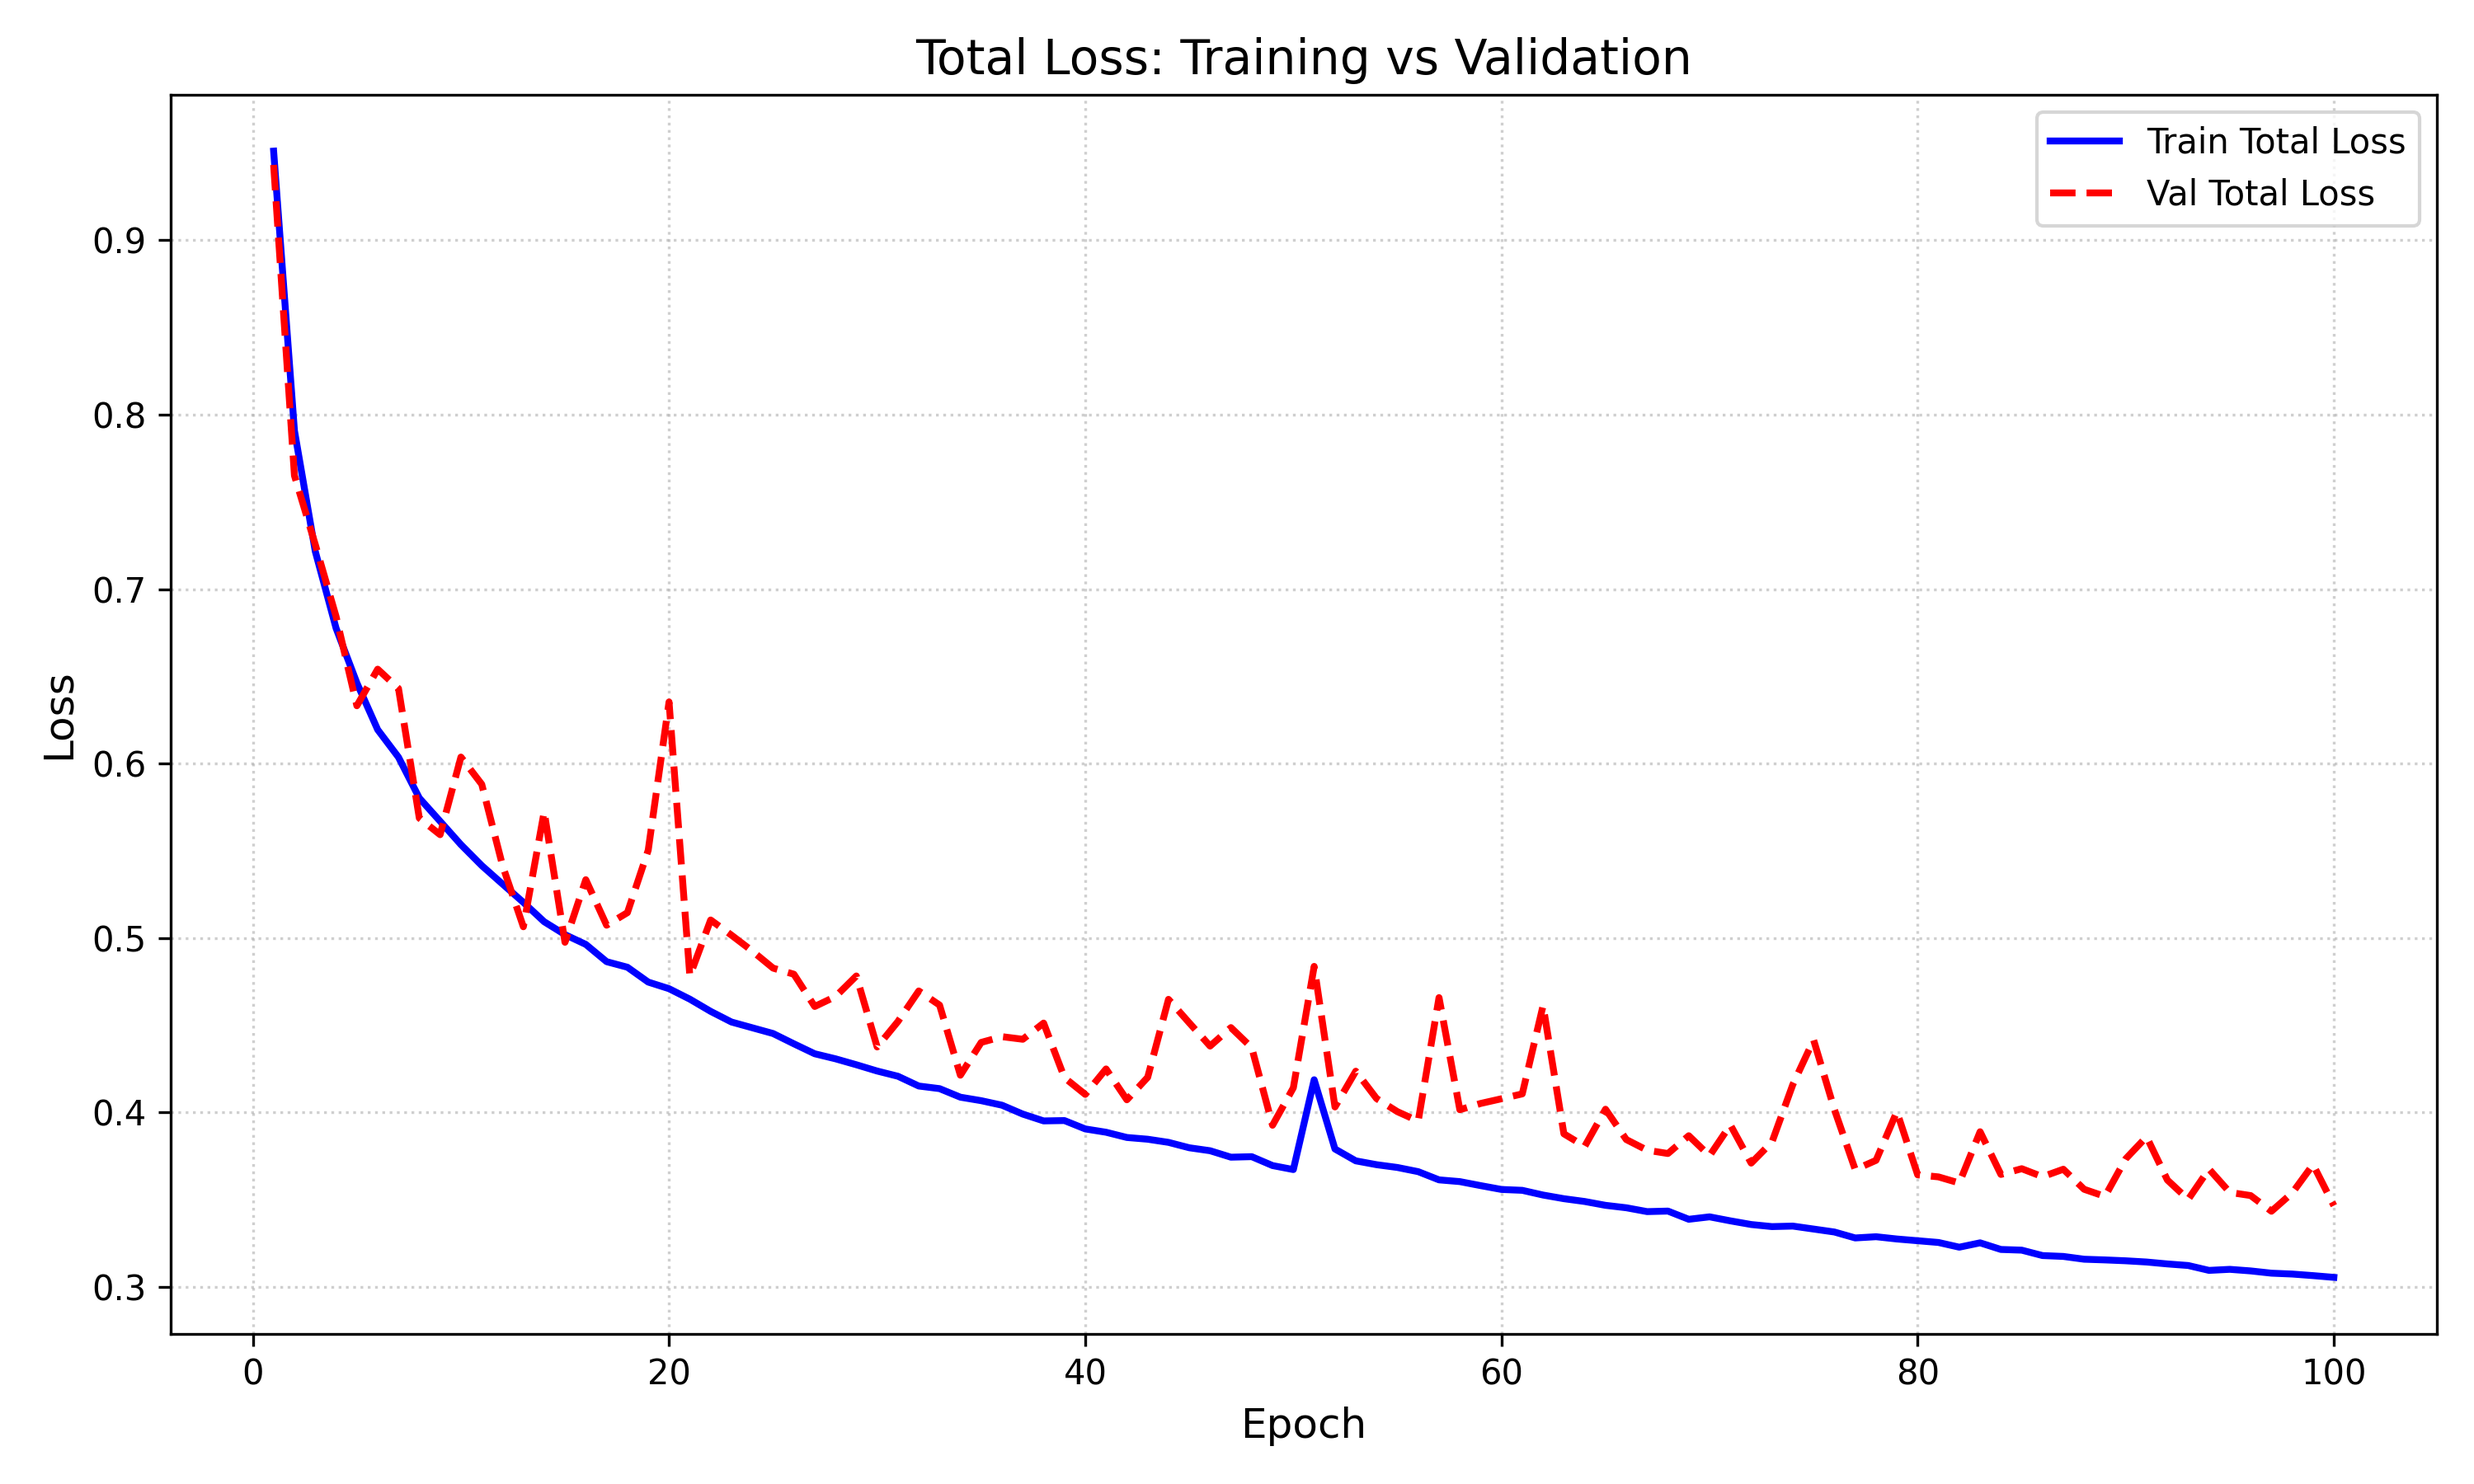
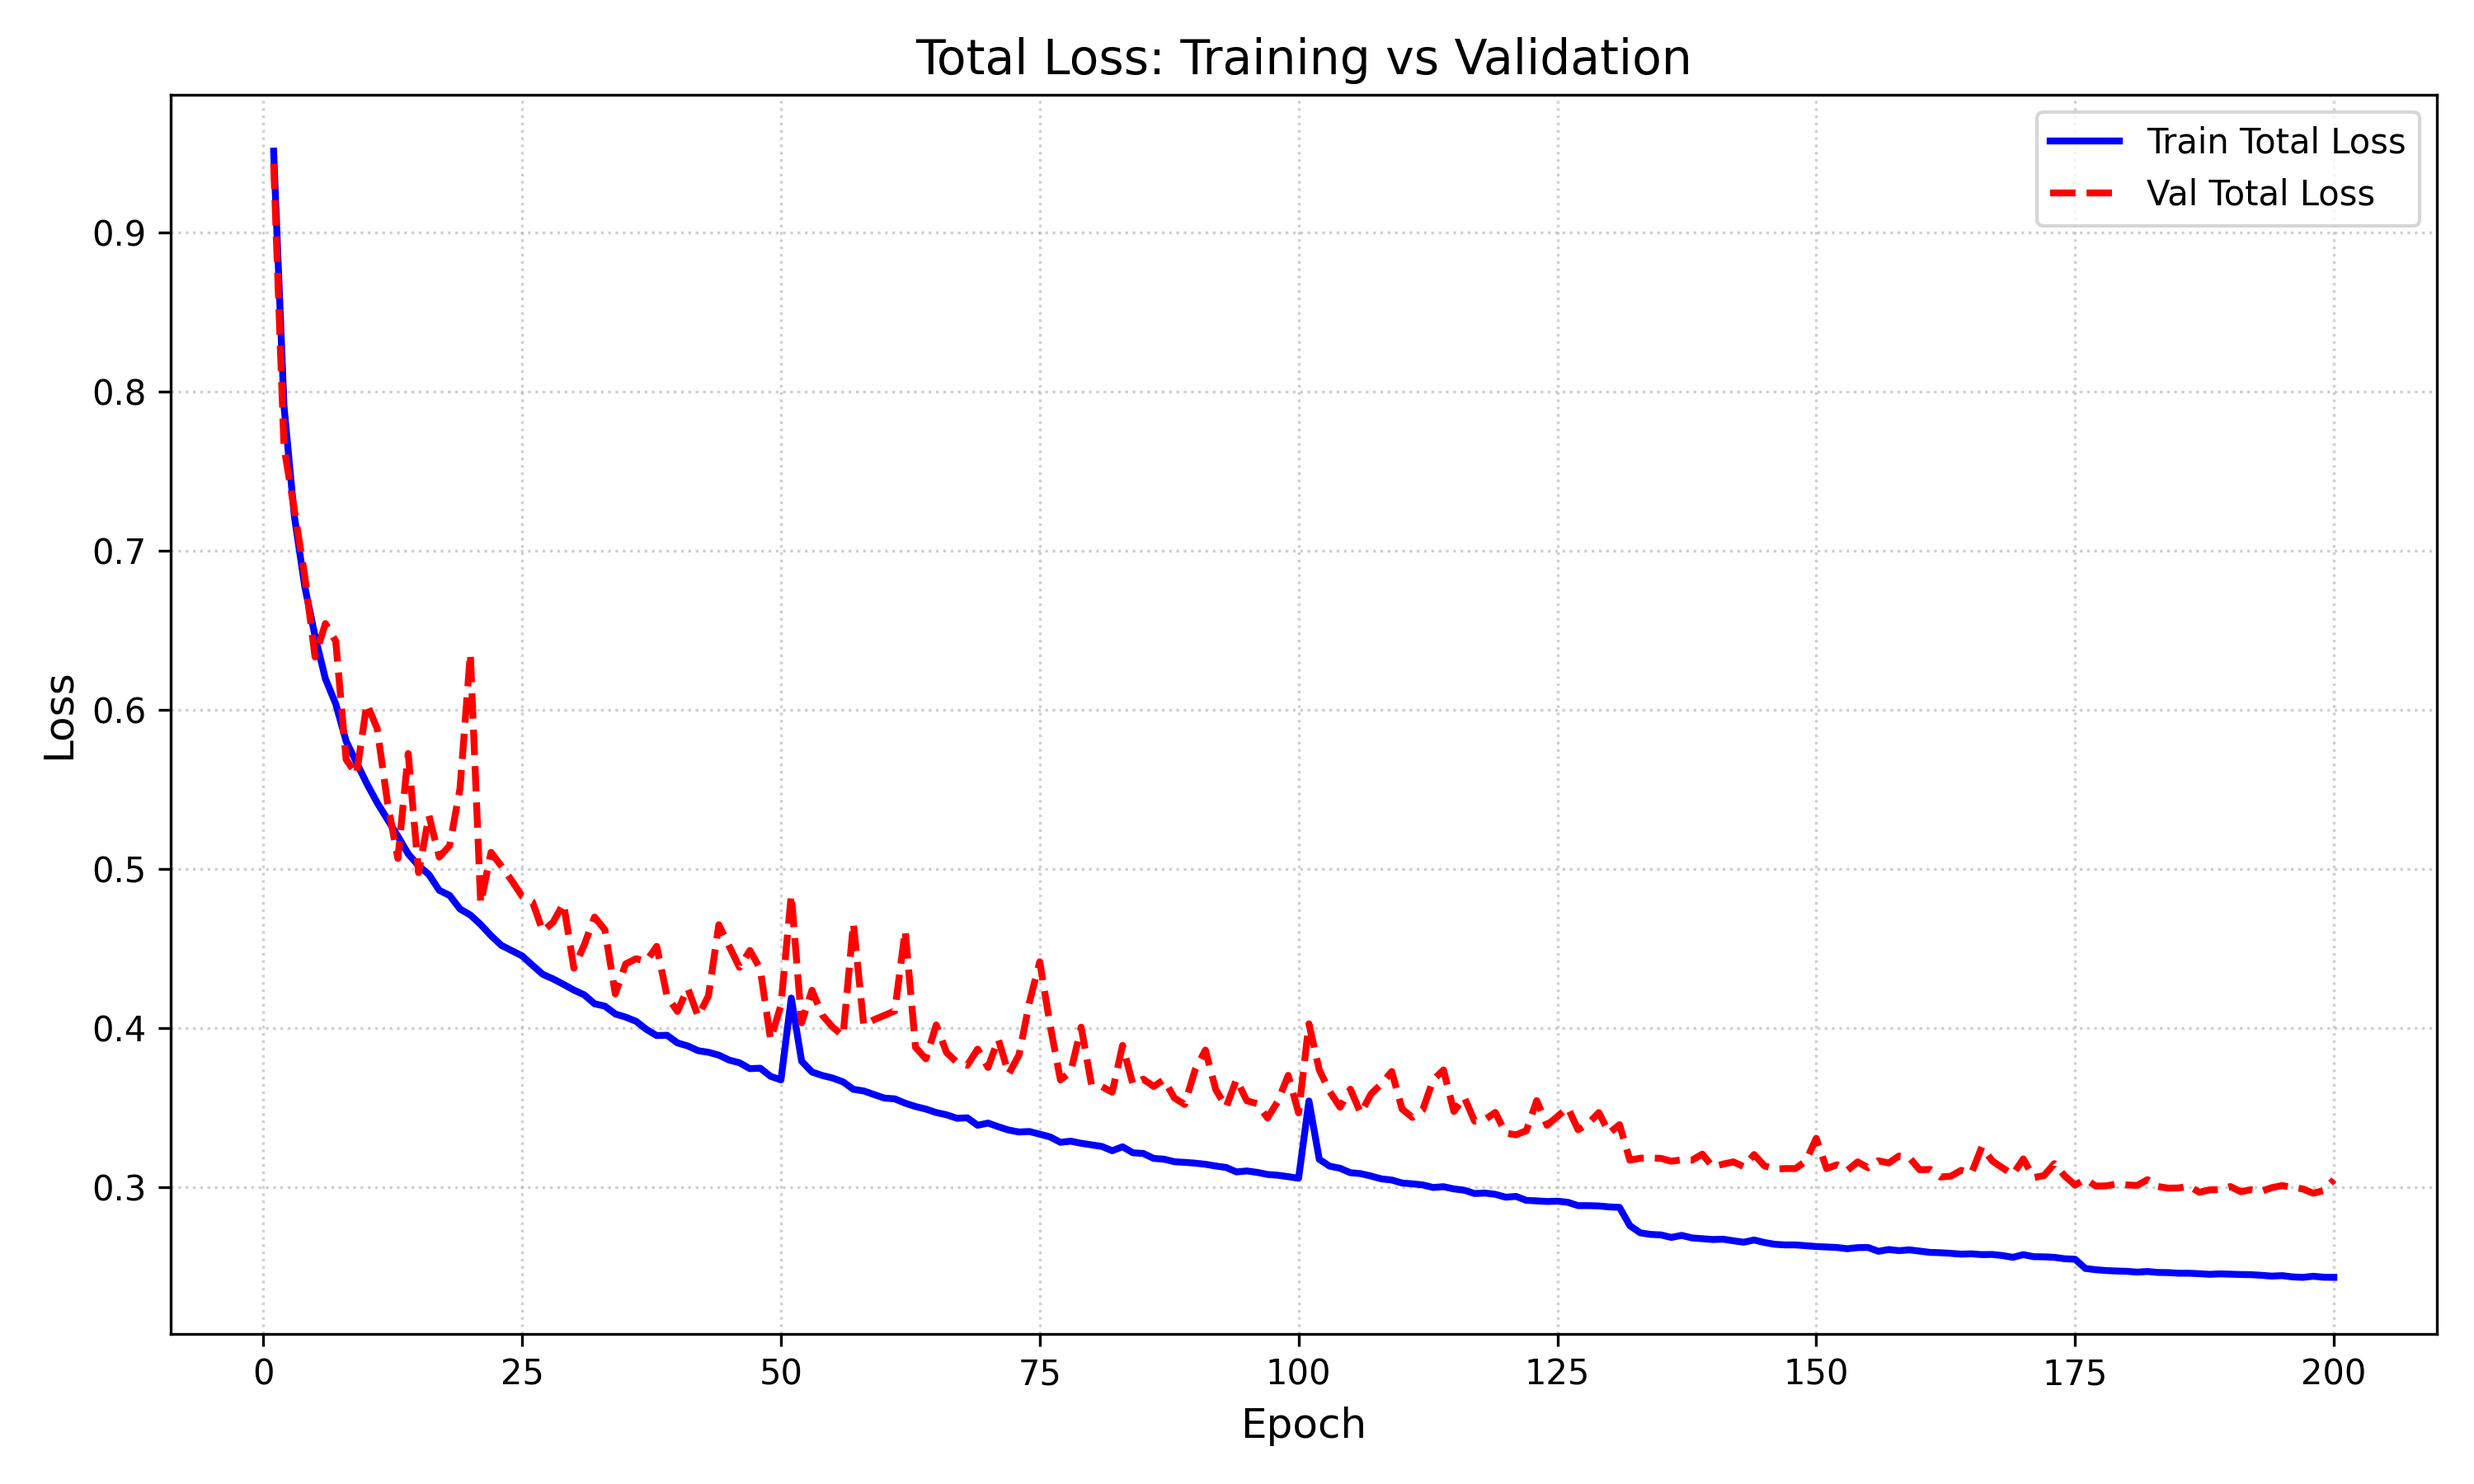
Readme update after 200 epochs

diff --git a/Python/FlowNet/README.md b/Python/FlowNet/README.md
@@ -2,7 +2,7 @@
 
 ## Training the model
 
-This runs on Python 3. and requires the following packages :
+This runs on Python 3.11 and requires the following packages :
 ```
 tensorflow
 tqdm
@@ -19,9 +19,17 @@ The losses (different scales and validation) will be written in a file called ``
 
 ## Results
 
-After running on the [FlyingChairs Dataset](https://lmb.informatik.uni-freiburg.de/resources/datasets/FlyingChairs.en.html) for 100 epochs, we obtain the following loss curves : 
+After running on the [FlyingChairs Dataset](https://lmb.informatik.uni-freiburg.de/resources/datasets/FlyingChairs.en.html) for 200 epochs, we obtain the following loss curves : 
 
 
 ![Total Loss](../../Images/Flownet/total_loss.png)
 
 ## Visualizing the results
+
+To visualize the results you can use the Flow Viewer. Results yeald : 
+
+![FlowNet Output on the FlyingChairs dataset](../../Images/Flownet/output.png)
+
+Here is the groundtruth for comparison 
+
+![Groundtruth](../../Images/Flownet/groundtruth.png)
